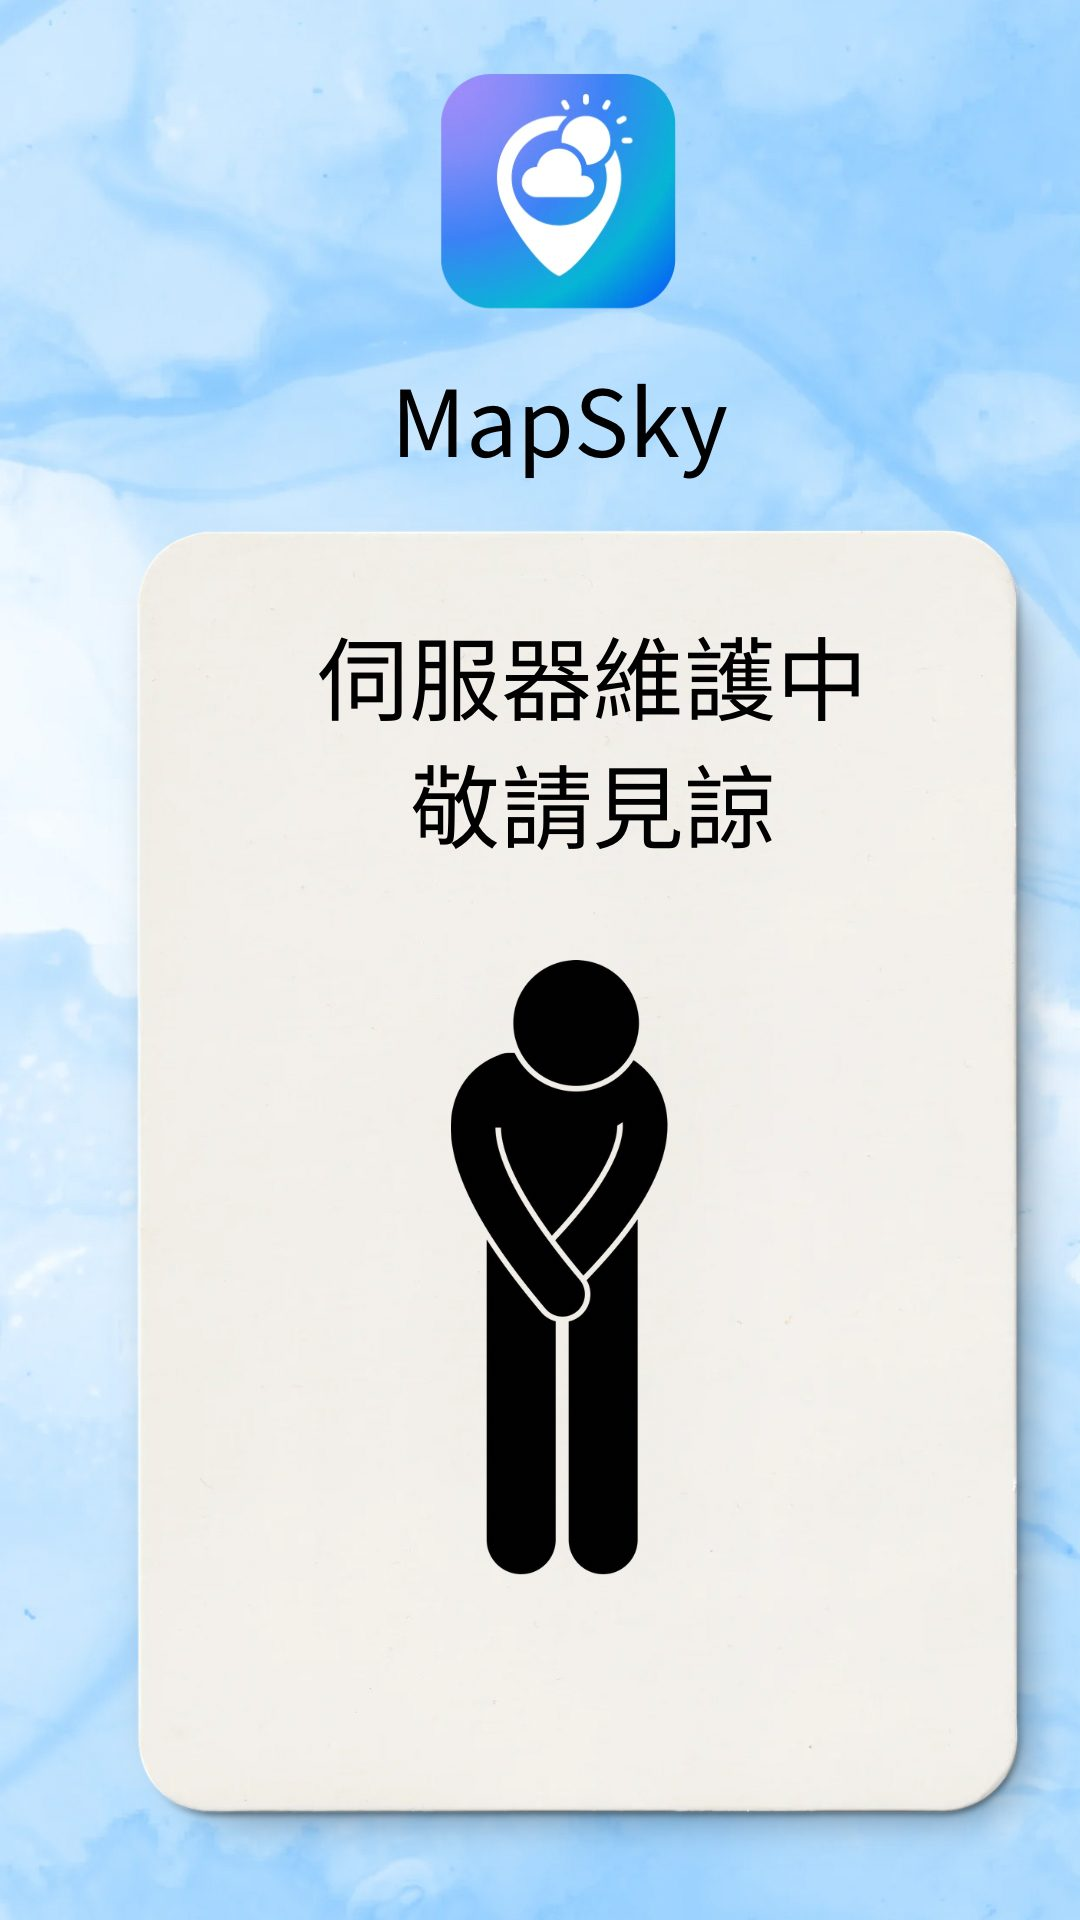
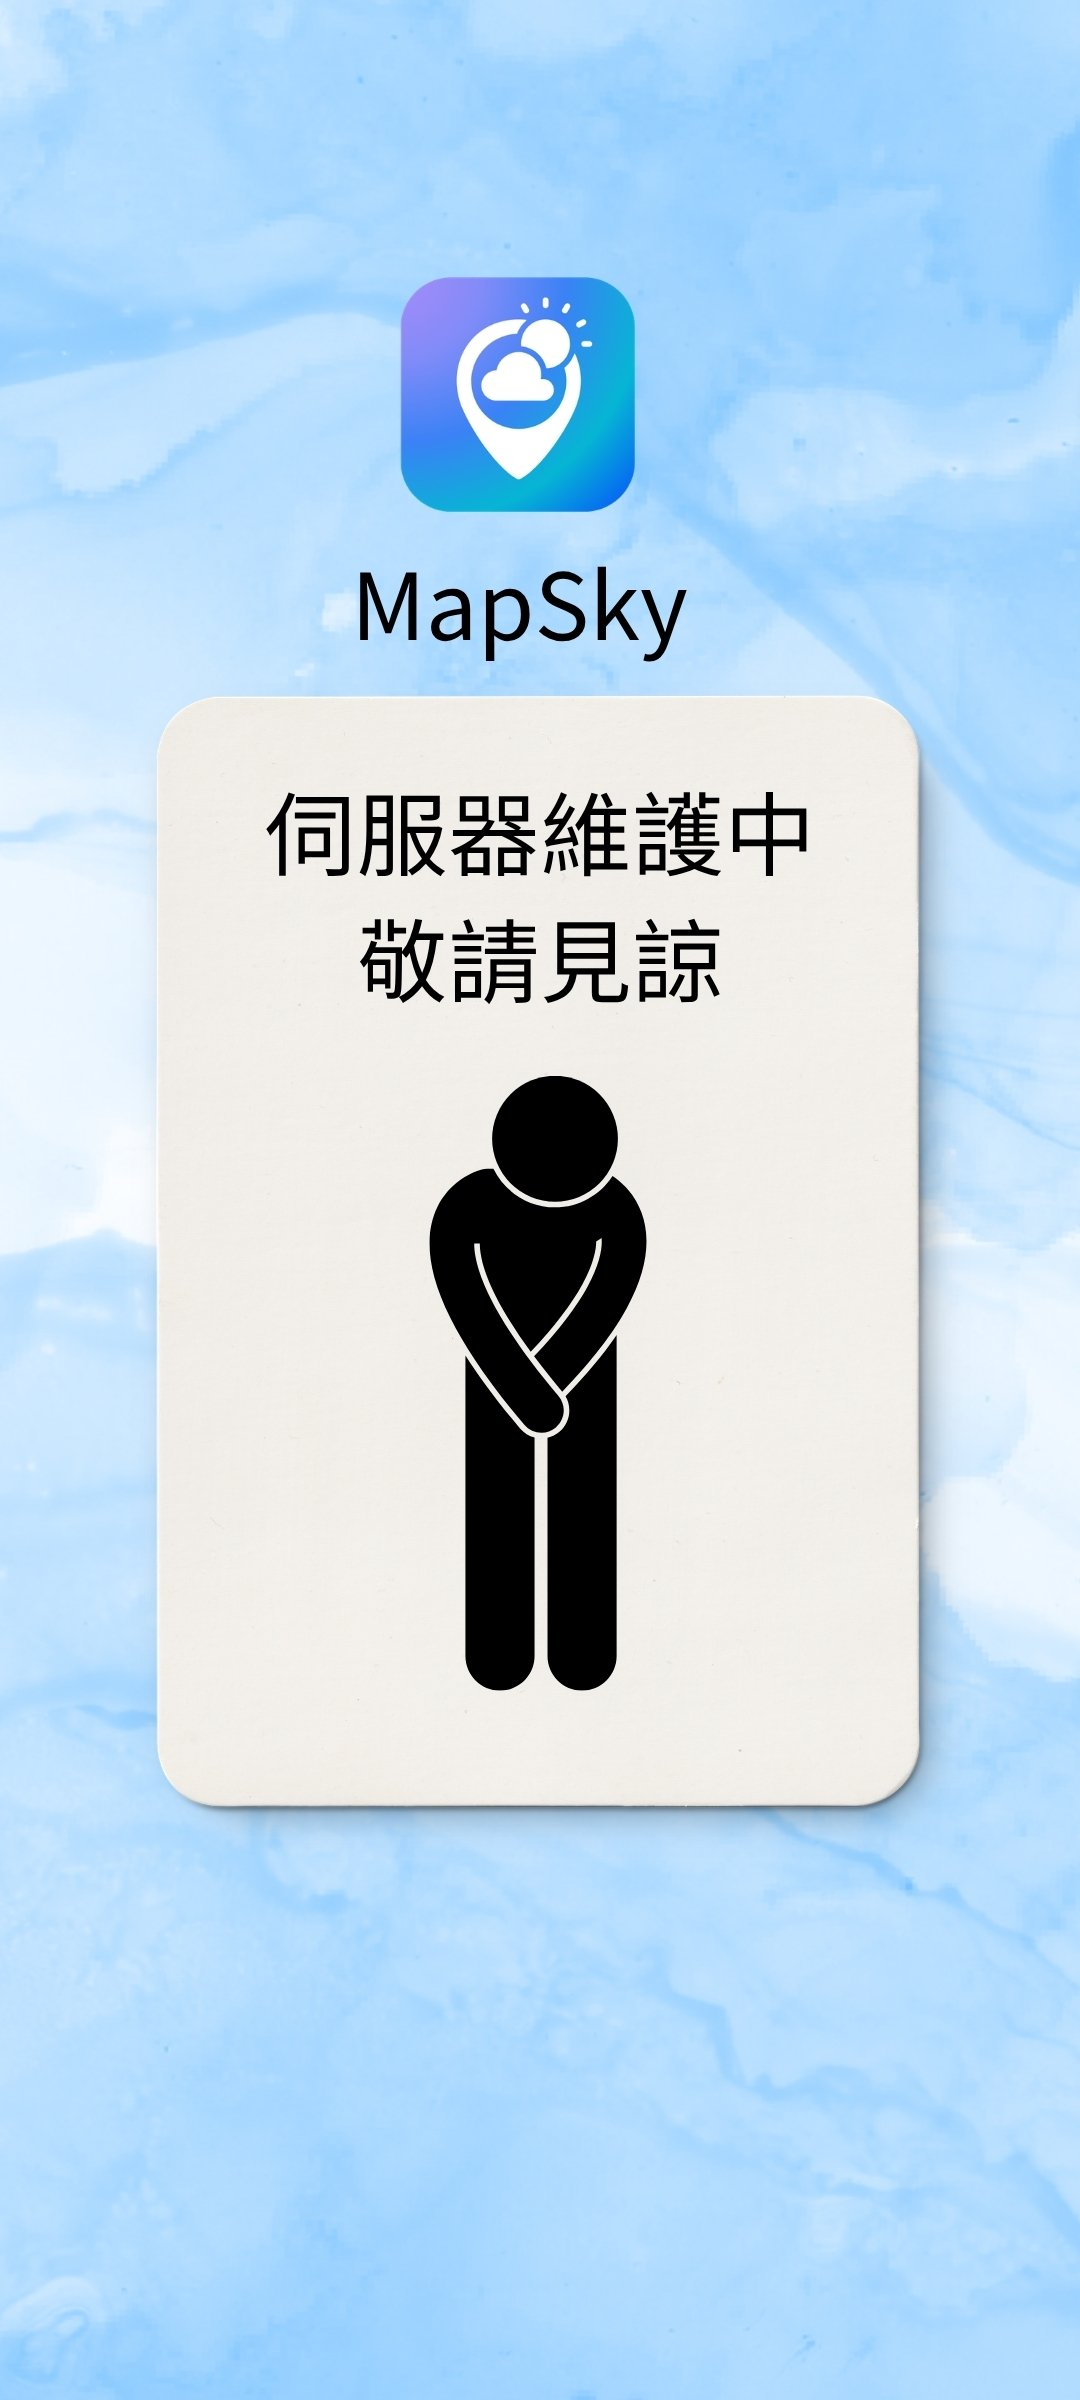
維護畫面圖片換成新版（1080x2400，9:20 比例更貼合手機螢幕），裁切會更少

diff --git a/public/index.html b/public/index.html
@@ -79,7 +79,7 @@
        整個網站功能都碰不到；管理員照常使用，由 web-shim.js 判斷。
        直接全螢幕放使用者提供的那張圖，不用 CSS 另外拼卡片。 -->
   <div id="maintenanceGate" class="maintenance-gate hidden">
-    <img class="maintenance-gate-img" src="images/maintenance.svg" alt="伺服器維護中，敬請見諒" />
+    <img class="maintenance-gate-img" src="images/maintenance.jpg" alt="伺服器維護中，敬請見諒" />
     <button id="maintenanceAdminLoginBtn" class="maintenance-admin-link" type="button">管理員登入</button>
     <button id="maintenanceLogoutBtn" class="maintenance-logout-btn hidden" type="button">登出</button>
   </div>
